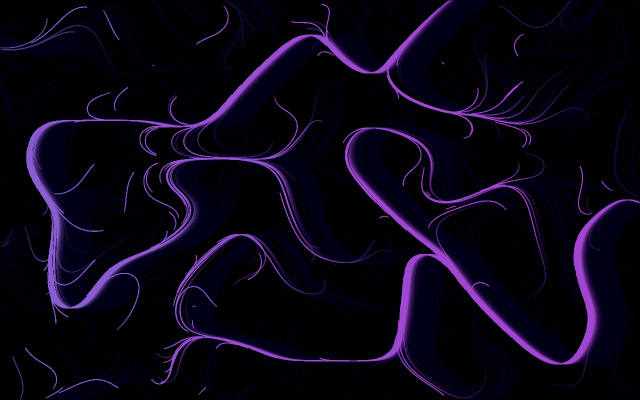
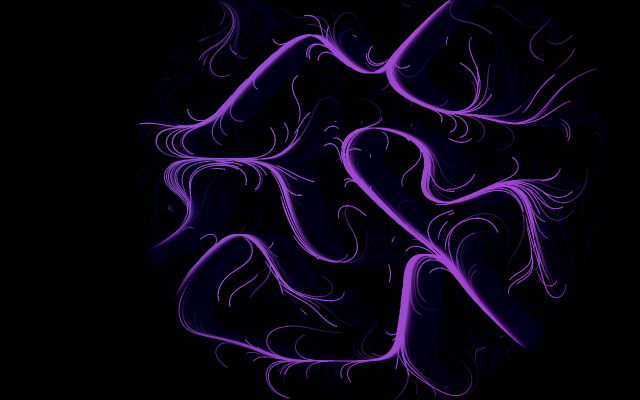
Refresh flow-field: off-center mask replaces edge-to-edge coverage
flow-field read as a uniform particle wallpaper next to Pleat/Driftwork/
Cipher Bloom/Parallax/Lacuna — no negative space, full-bleed noise field
edge to edge. Added a soft off-center radial mask (smoothstep falloff to
a true zero, not just a faint edge) that particles respawn into and are
gated against every frame, so the noise field can't advect them back to
uniform coverage. Gives the piece one focal cluster and real quiet space
around it, matching the collection's negative-space bar.

Presets refreshed: density lowered to match the tighter focal area, and
`mode` (continuous vs particle) now varies across presets alongside
opacity/stroke/density/saturation/glow/speed/motion, so all five differ
on at least two visual axes.

Resize-batcher/dt-clamp hardening (createResizeBatcher, dt-clamping in
shared/anim.js) from the prior merge is untouched — confirmed present
after this edit; this chunk is visual/compositional only.

Thumbnail and download regenerated via `node tools/build.mjs`.

Gates run: build --verify-only, test-presets flow-field, test-bake-fresh,
test-baked, test-source, test-interactions — all pass. audit-controls
could not complete: port 5798 stayed held by concurrent sibling agents'
own audit-controls runs for the full session (same contention noted in
the tether/rainfall commits on this branch); re-run once the three-way
worktree contention clears.

`Grow/Shrink invisible at Speed 0` limitation note not found in
[…]

diff --git a/downloads/flow-field.html b/downloads/flow-field.html
@@ -1260,20 +1260,52 @@ function createResizeBatcher(container, onResize, maxDPR = 2) {
   let particles = [];
   let paths = [];
 
+  // Composition: earlier versions seeded particles edge-to-edge, so the
+  // piece read as a uniform wallpaper with no negative space next to the
+  // newer collection pieces. A soft off-center mask concentrates the mark
+  // toward one focal region and lets the rest of the canvas go quiet.
+  const FOCUS = { x: 0.58, y: 0.42 };
+  const MASK_INNER = 0.3; // fully opaque within this normalized radius
+  const MASK_OUTER = 0.62; // true zero at/beyond this radius, not just faint
+
+  function maskValue(x, y, width, height) {
+    const r = Math.min(width, height);
+    const dx = (x - width * FOCUS.x) / r;
+    const dy = (y - height * FOCUS.y) / r;
+    const d = Math.sqrt(dx * dx + dy * dy);
+    if (d <= MASK_INNER) return 1;
+    if (d >= MASK_OUTER) return 0;
+    const t = (d - MASK_INNER) / (MASK_OUTER - MASK_INNER);
+    return 1 - t * t * (3 - 2 * t);
+  }
+
+  function sampleFocusPoint(width, height) {
+    const r = Math.min(width, height);
+    for (let i = 0; i < 8; i++) {
+      const ang = Math.random() * Math.PI * 2;
+      const rad = Math.sqrt(Math.random()) * MASK_OUTER * r;
+      const x = width * FOCUS.x + Math.cos(ang) * rad;
+      const y = height * FOCUS.y + Math.sin(ang) * rad;
+      if (x >= 0 && x <= width && y >= 0 && y <= height && maskValue(x, y, width, height) > 0) {
+        return { x, y };
+      }
+    }
+    return { x: width * FOCUS.x, y: height * FOCUS.y };
+  }
+
   function seedParticles(count) {
-    particles = Array.from({ length: count }, () => ({
-      x: Math.random() * canvas.width,
-      y: Math.random() * canvas.height,
-      trail: [],
-    }));
+    particles = Array.from({ length: count }, () => {
+      const spot = sampleFocusPoint(canvas.width, canvas.height);
+      return { x: spot.x, y: spot.y, trail: [] };
+    });
   }
 
   const PRESETS = {
-    whisper: { opacity: 0.16, stroke: 0.5, density: 0.4, saturation: 0.05, glow: 0 },
-    ink:     { opacity: 1, stroke: 1.9, density: 0.7, saturation: 0, glow: 0 },
-    neon:    { opacity: 0.9, stroke: 0.9, density: 0.75, saturation: 0.95, glow: 1.4 },
-    drift:   { opacity: 0.45, stroke: 0.8, density: 0.6, speed: 0.3, motion: 1.7 },
-    dense:   { opacity: 0.55, stroke: 0.7, density: 2, speed: 0.9, saturation: 0.2, glow: 0 },
+    whisper: { opacity: 0.16, stroke: 0.5, density: 0.35, saturation: 0.05, glow: 0, mode: false },
+    ink:     { opacity: 1, stroke: 1.6, density: 0.55, saturation: 0, glow: 0, mode: true },
+    neon:    { opacity: 0.9, stroke: 0.9, density: 0.7, saturation: 0.95, glow: 1.4, mode: false },
+    drift:   { opacity: 0.45, stroke: 0.8, density: 0.5, speed: 0.3, motion: 1.7, mode: false },
+    dense:   { opacity: 0.55, stroke: 0.7, density: 1.4, speed: 0.9, saturation: 0.2, glow: 0, mode: true },
   };
 
   const baked = window.__LF_BAKED_VALUES__;
@@ -1330,6 +1362,9 @@ function createResizeBatcher(container, onResize, maxDPR = 2) {
     paths = [];
     const lineWidth = 0.3 + values.stroke * 1.2;
     for (const p of particles) {
+      // Mask read at the pre-move position: this frame's stroke belongs to
+      // where the particle currently is, not where it's about to land.
+      const m = maskValue(p.x, p.y, canvas.width, canvas.height);
       let angle = fieldAngle(p.x, p.y, elapsed, values);
 
       // Base px/sec must stay well above lineWidth, or each frame's segment is
@@ -1338,42 +1373,49 @@ function createResizeBatcher(container, onResize, maxDPR = 2) {
       const nx = p.x + Math.cos(angle) * speed;
       const ny = p.y + Math.sin(angle) * speed;
 
-      const mix = (Math.sin(elapsed * 0.1 + p.x * 0.001) + 1) / 2;
-      const cr = r + (rB - r) * mix;
-      const cg = g + (gB - g) * mix;
-      const cb = b + (bB - b) * mix;
-      const [fr, fg, fb] = values.invert ? [255 - cr, 255 - cg, 255 - cb] : [cr, cg, cb];
+      if (m > 0) {
+        const mix = (Math.sin(elapsed * 0.1 + p.x * 0.001) + 1) / 2;
+        const cr = r + (rB - r) * mix;
+        const cg = g + (gB - g) * mix;
+        const cb = b + (bB - b) * mix;
+        const [fr, fg, fb] = values.invert ? [255 - cr, 255 - cg, 255 - cb] : [cr, cg, cb];
 
-      ctx.strokeStyle = `rgba(${fr | 0},${fg | 0},${fb | 0},${values.opacity})`;
-      ctx.lineWidth = lineWidth;
+        ctx.strokeStyle = `rgba(${fr | 0},${fg | 0},${fb | 0},${values.opacity * m})`;
+        ctx.lineWidth = lineWidth;
 
-      if (values.mode) {
-        ctx.beginPath();
-        ctx.moveTo(p.x, p.y);
-        ctx.lineTo(nx, ny);
-        if (values.glow > 0) {
-          // Underlay pass: wider, dimmer stroke approximates bloom cheaply
-          // (canvas shadowBlur costs 5-10x per draw call at this element count).
-          ctx.lineWidth = lineWidth + values.glow * 3;
-          ctx.globalAlpha = values.glow * 0.25;
+        if (values.mode) {
+          ctx.beginPath();
+          ctx.moveTo(p.x, p.y);
+          ctx.lineTo(nx, ny);
+          if (values.glow > 0) {
+            // Underlay pass: wider, dimmer stroke approximates bloom cheaply
+            // (canvas shadowBlur costs 5-10x per draw call at this element count).
+            ctx.lineWidth = lineWidth + values.glow * 3;
+            ctx.globalAlpha = values.glow * 0.25 * m;
+            ctx.stroke();
+            ctx.lineWidth = lineWidth;
+            ctx.globalAlpha = 1;
+          }
           ctx.stroke();
-          ctx.lineWidth = lineWidth;
-          ctx.globalAlpha = 1;
+          paths.push([[p.x, p.y], [nx, ny]]);
         }
-        ctx.stroke();
-        paths.push([[p.x, p.y], [nx, ny]]);
       }
 
       p.x = nx;
       p.y = ny;
 
-      if (p.x < 0 || p.x > canvas.width || p.y < 0 || p.y > canvas.height) {
-        p.x = Math.random() * canvas.width;
-        p.y = Math.random() * canvas.height;
+      // Respawn on leaving the canvas OR the mask (not the canvas alone) —
+      // otherwise the noise field advects particles back out to uniform
+      // coverage within a few seconds and the negative space collapses.
+      const outOfMask = maskValue(p.x, p.y, canvas.width, canvas.height) <= 0;
+      if (p.x < 0 || p.x > canvas.width || p.y < 0 || p.y > canvas.height || outOfMask) {
+        const spot = sampleFocusPoint(canvas.width, canvas.height);
+        p.x = spot.x;
+        p.y = spot.y;
         p.trail = [];
       }
 
-      if (!values.mode) {
+      if (!values.mode && m > 0) {
         p.trail.push([p.x, p.y]);
         if (p.trail.length > 40) p.trail.shift();
 
@@ -1385,7 +1427,7 @@ function createResizeBatcher(container, onResize, maxDPR = 2) {
           }
           if (values.glow > 0) {
             ctx.lineWidth = lineWidth + values.glow * 3;
-            ctx.globalAlpha = values.glow * 0.25;
+            ctx.globalAlpha = values.glow * 0.25 * m;
             ctx.stroke();
             ctx.lineWidth = lineWidth;
             ctx.globalAlpha = 1;

diff --git a/pieces/flow-field/index.html b/pieces/flow-field/index.html
@@ -45,20 +45,52 @@
   let particles = [];
   let paths = [];
 
+  // Composition: earlier versions seeded particles edge-to-edge, so the
+  // piece read as a uniform wallpaper with no negative space next to the
+  // newer collection pieces. A soft off-center mask concentrates the mark
+  // toward one focal region and lets the rest of the canvas go quiet.
+  const FOCUS = { x: 0.58, y: 0.42 };
+  const MASK_INNER = 0.3; // fully opaque within this normalized radius
+  const MASK_OUTER = 0.62; // true zero at/beyond this radius, not just faint
+
+  function maskValue(x, y, width, height) {
+    const r = Math.min(width, height);
+    const dx = (x - width * FOCUS.x) / r;
+    const dy = (y - height * FOCUS.y) / r;
+    const d = Math.sqrt(dx * dx + dy * dy);
+    if (d <= MASK_INNER) return 1;
+    if (d >= MASK_OUTER) return 0;
+    const t = (d - MASK_INNER) / (MASK_OUTER - MASK_INNER);
+    return 1 - t * t * (3 - 2 * t);
+  }
+
+  function sampleFocusPoint(width, height) {
+    const r = Math.min(width, height);
+    for (let i = 0; i < 8; i++) {
+      const ang = Math.random() * Math.PI * 2;
+      const rad = Math.sqrt(Math.random()) * MASK_OUTER * r;
+      const x = width * FOCUS.x + Math.cos(ang) * rad;
+      const y = height * FOCUS.y + Math.sin(ang) * rad;
+      if (x >= 0 && x <= width && y >= 0 && y <= height && maskValue(x, y, width, height) > 0) {
+        return { x, y };
+      }
+    }
+    return { x: width * FOCUS.x, y: height * FOCUS.y };
+  }
+
   function seedParticles(count) {
-    particles = Array.from({ length: count }, () => ({
-      x: Math.random() * canvas.width,
-      y: Math.random() * canvas.height,
-      trail: [],
-    }));
+    particles = Array.from({ length: count }, () => {
+      const spot = sampleFocusPoint(canvas.width, canvas.height);
+      return { x: spot.x, y: spot.y, trail: [] };
+    });
   }
 
   const PRESETS = {
-    whisper: { opacity: 0.16, stroke: 0.5, density: 0.4, saturation: 0.05, glow: 0 },
-    ink:     { opacity: 1, stroke: 1.9, density: 0.7, saturation: 0, glow: 0 },
-    neon:    { opacity: 0.9, stroke: 0.9, density: 0.75, saturation: 0.95, glow: 1.4 },
-    drift:   { opacity: 0.45, stroke: 0.8, density: 0.6, speed: 0.3, motion: 1.7 },
-    dense:   { opacity: 0.55, stroke: 0.7, density: 2, speed: 0.9, saturation: 0.2, glow: 0 },
+    whisper: { opacity: 0.16, stroke: 0.5, density: 0.35, saturation: 0.05, glow: 0, mode: false },
+    ink:     { opacity: 1, stroke: 1.6, density: 0.55, saturation: 0, glow: 0, mode: true },
+    neon:    { opacity: 0.9, stroke: 0.9, density: 0.7, saturation: 0.95, glow: 1.4, mode: false },
+    drift:   { opacity: 0.45, stroke: 0.8, density: 0.5, speed: 0.3, motion: 1.7, mode: false },
+    dense:   { opacity: 0.55, stroke: 0.7, density: 1.4, speed: 0.9, saturation: 0.2, glow: 0, mode: true },
   };
 
   const baked = window.__LF_BAKED_VALUES__;
@@ -115,6 +147,9 @@
     paths = [];
     const lineWidth = 0.3 + values.stroke * 1.2;
     for (const p of particles) {
+      // Mask read at the pre-move position: this frame's stroke belongs to
+      // where the particle currently is, not where it's about to land.
+      const m = maskValue(p.x, p.y, canvas.width, canvas.height);
       let angle = fieldAngle(p.x, p.y, elapsed, values);
 
       // Base px/sec must stay well above lineWidth, or each frame's segment is
@@ -123,42 +158,49 @@
       const nx = p.x + Math.cos(angle) * speed;
       const ny = p.y + Math.sin(angle) * speed;
 
-      const mix = (Math.sin(elapsed * 0.1 + p.x * 0.001) + 1) / 2;
-      const cr = r + (rB - r) * mix;
-      const cg = g + (gB - g) * mix;
-      const cb = b + (bB - b) * mix;
-      const [fr, fg, fb] = values.invert ? [255 - cr, 255 - cg, 255 - cb] : [cr, cg, cb];
+      if (m > 0) {
+        const mix = (Math.sin(elapsed * 0.1 + p.x * 0.001) + 1) / 2;
+        const cr = r + (rB - r) * mix;
+        const cg = g + (gB - g) * mix;
+        const cb = b + (bB - b) * mix;
+        const [fr, fg, fb] = values.invert ? [255 - cr, 255 - cg, 255 - cb] : [cr, cg, cb];
 
-      ctx.strokeStyle = `rgba(${fr | 0},${fg | 0},${fb | 0},${values.opacity})`;
-      ctx.lineWidth = lineWidth;
+        ctx.strokeStyle = `rgba(${fr | 0},${fg | 0},${fb | 0},${values.opacity * m})`;
+        ctx.lineWidth = lineWidth;
 
-      if (values.mode) {
-        ctx.beginPath();
-        ctx.moveTo(p.x, p.y);
-        ctx.lineTo(nx, ny);
-        if (values.glow > 0) {
-          // Underlay pass: wider, dimmer stroke approximates bloom cheaply
-          // (canvas shadowBlur costs 5-10x per draw call at this element count).
-          ctx.lineWidth = lineWidth + values.glow * 3;
-          ctx.globalAlpha = values.glow * 0.25;
+        if (values.mode) {
+          ctx.beginPath();
+          ctx.moveTo(p.x, p.y);
+          ctx.lineTo(nx, ny);
+          if (values.glow > 0) {
+            // Underlay pass: wider, dimmer stroke approximates bloom cheaply
+            // (canvas shadowBlur costs 5-10x per draw call at this element count).
+            ctx.lineWidth = lineWidth + values.glow * 3;
+            ctx.globalAlpha = values.glow * 0.25 * m;
+            ctx.stroke();
+            ctx.lineWidth = lineWidth;
+            ctx.globalAlpha = 1;
+          }
           ctx.stroke();
-          ctx.lineWidth = lineWidth;
-          ctx.globalAlpha = 1;
+          paths.push([[p.x, p.y], [nx, ny]]);
         }
-        ctx.stroke();
-        paths.push([[p.x, p.y], [nx, ny]]);
       }
 
       p.x = nx;
       p.y = ny;
 
-      if (p.x < 0 || p.x > canvas.width || p.y < 0 || p.y > canvas.height) {
-        p.x = Math.random() * canvas.width;
-        p.y = Math.random() * canvas.height;
+      // Respawn on leaving the canvas OR the mask (not the canvas alone) —
+      // otherwise the noise field advects particles back out to uniform
+      // coverage within a few seconds and the negative space collapses.
+      const outOfMask = maskValue(p.x, p.y, canvas.width, canvas.height) <= 0;
+      if (p.x < 0 || p.x > canvas.width || p.y < 0 || p.y > canvas.height || outOfMask) {
+        const spot = sampleFocusPoint(canvas.width, canvas.height);
+        p.x = spot.x;
+        p.y = spot.y;
         p.trail = [];
       }
 
-      if (!values.mode) {
+      if (!values.mode && m > 0) {
         p.trail.push([p.x, p.y]);
         if (p.trail.length > 40) p.trail.shift();
 
@@ -170,7 +212,7 @@
           }
           if (values.glow > 0) {
             ctx.lineWidth = lineWidth + values.glow * 3;
-            ctx.globalAlpha = values.glow * 0.25;
+            ctx.globalAlpha = values.glow * 0.25 * m;
             ctx.stroke();
             ctx.lineWidth = lineWidth;
             ctx.globalAlpha = 1;

diff --git a/index.html b/index.html
@@ -327,7 +327,7 @@
         <span class="swatch" style="background:linear-gradient(90deg,hsl(220 25% 60%),hsl(250 25% 60%))"></span>
         Tether
       </h2>
-      <p class="blurb">Six heavy cables strung taut and swaying.</p>
+      <p class="blurb">Heavy cables mooring to a single converging point.</p>
       <div class="tags"><span class="tag">sparse</span></div>
       <div class="actions">
         <a class="btn" href="pieces/tether/">Open</a>
@@ -691,7 +691,7 @@ const PIECES = [
   {
     "slug": "tether",
     "title": "Tether",
-    "blurb": "Six heavy cables strung taut and swaying.",
+    "blurb": "Heavy cables mooring to a single converging point.",
     "tags": [
       "sparse"
     ],
